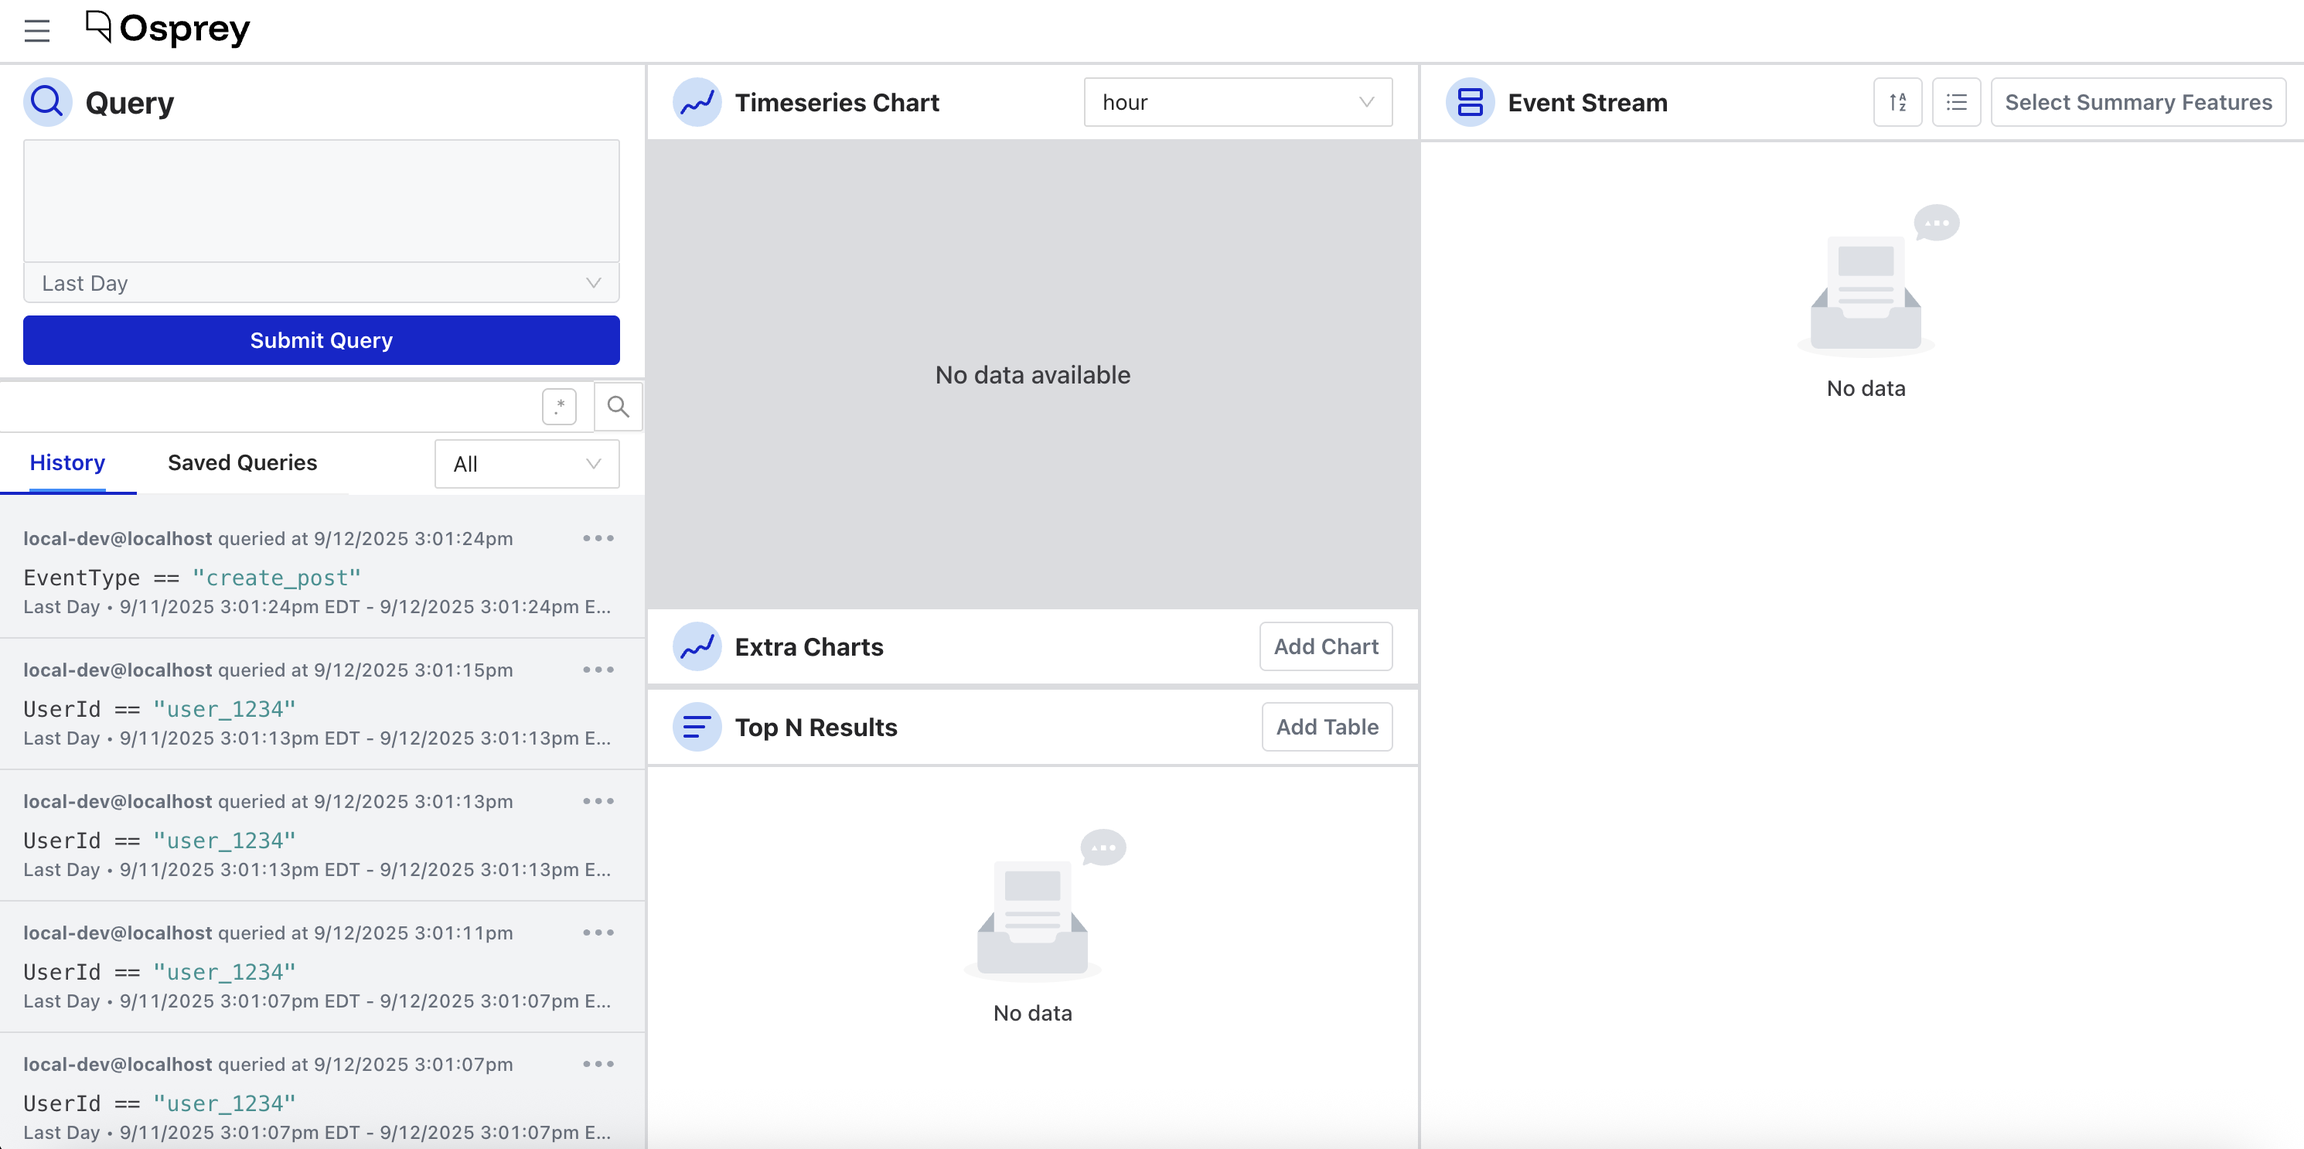
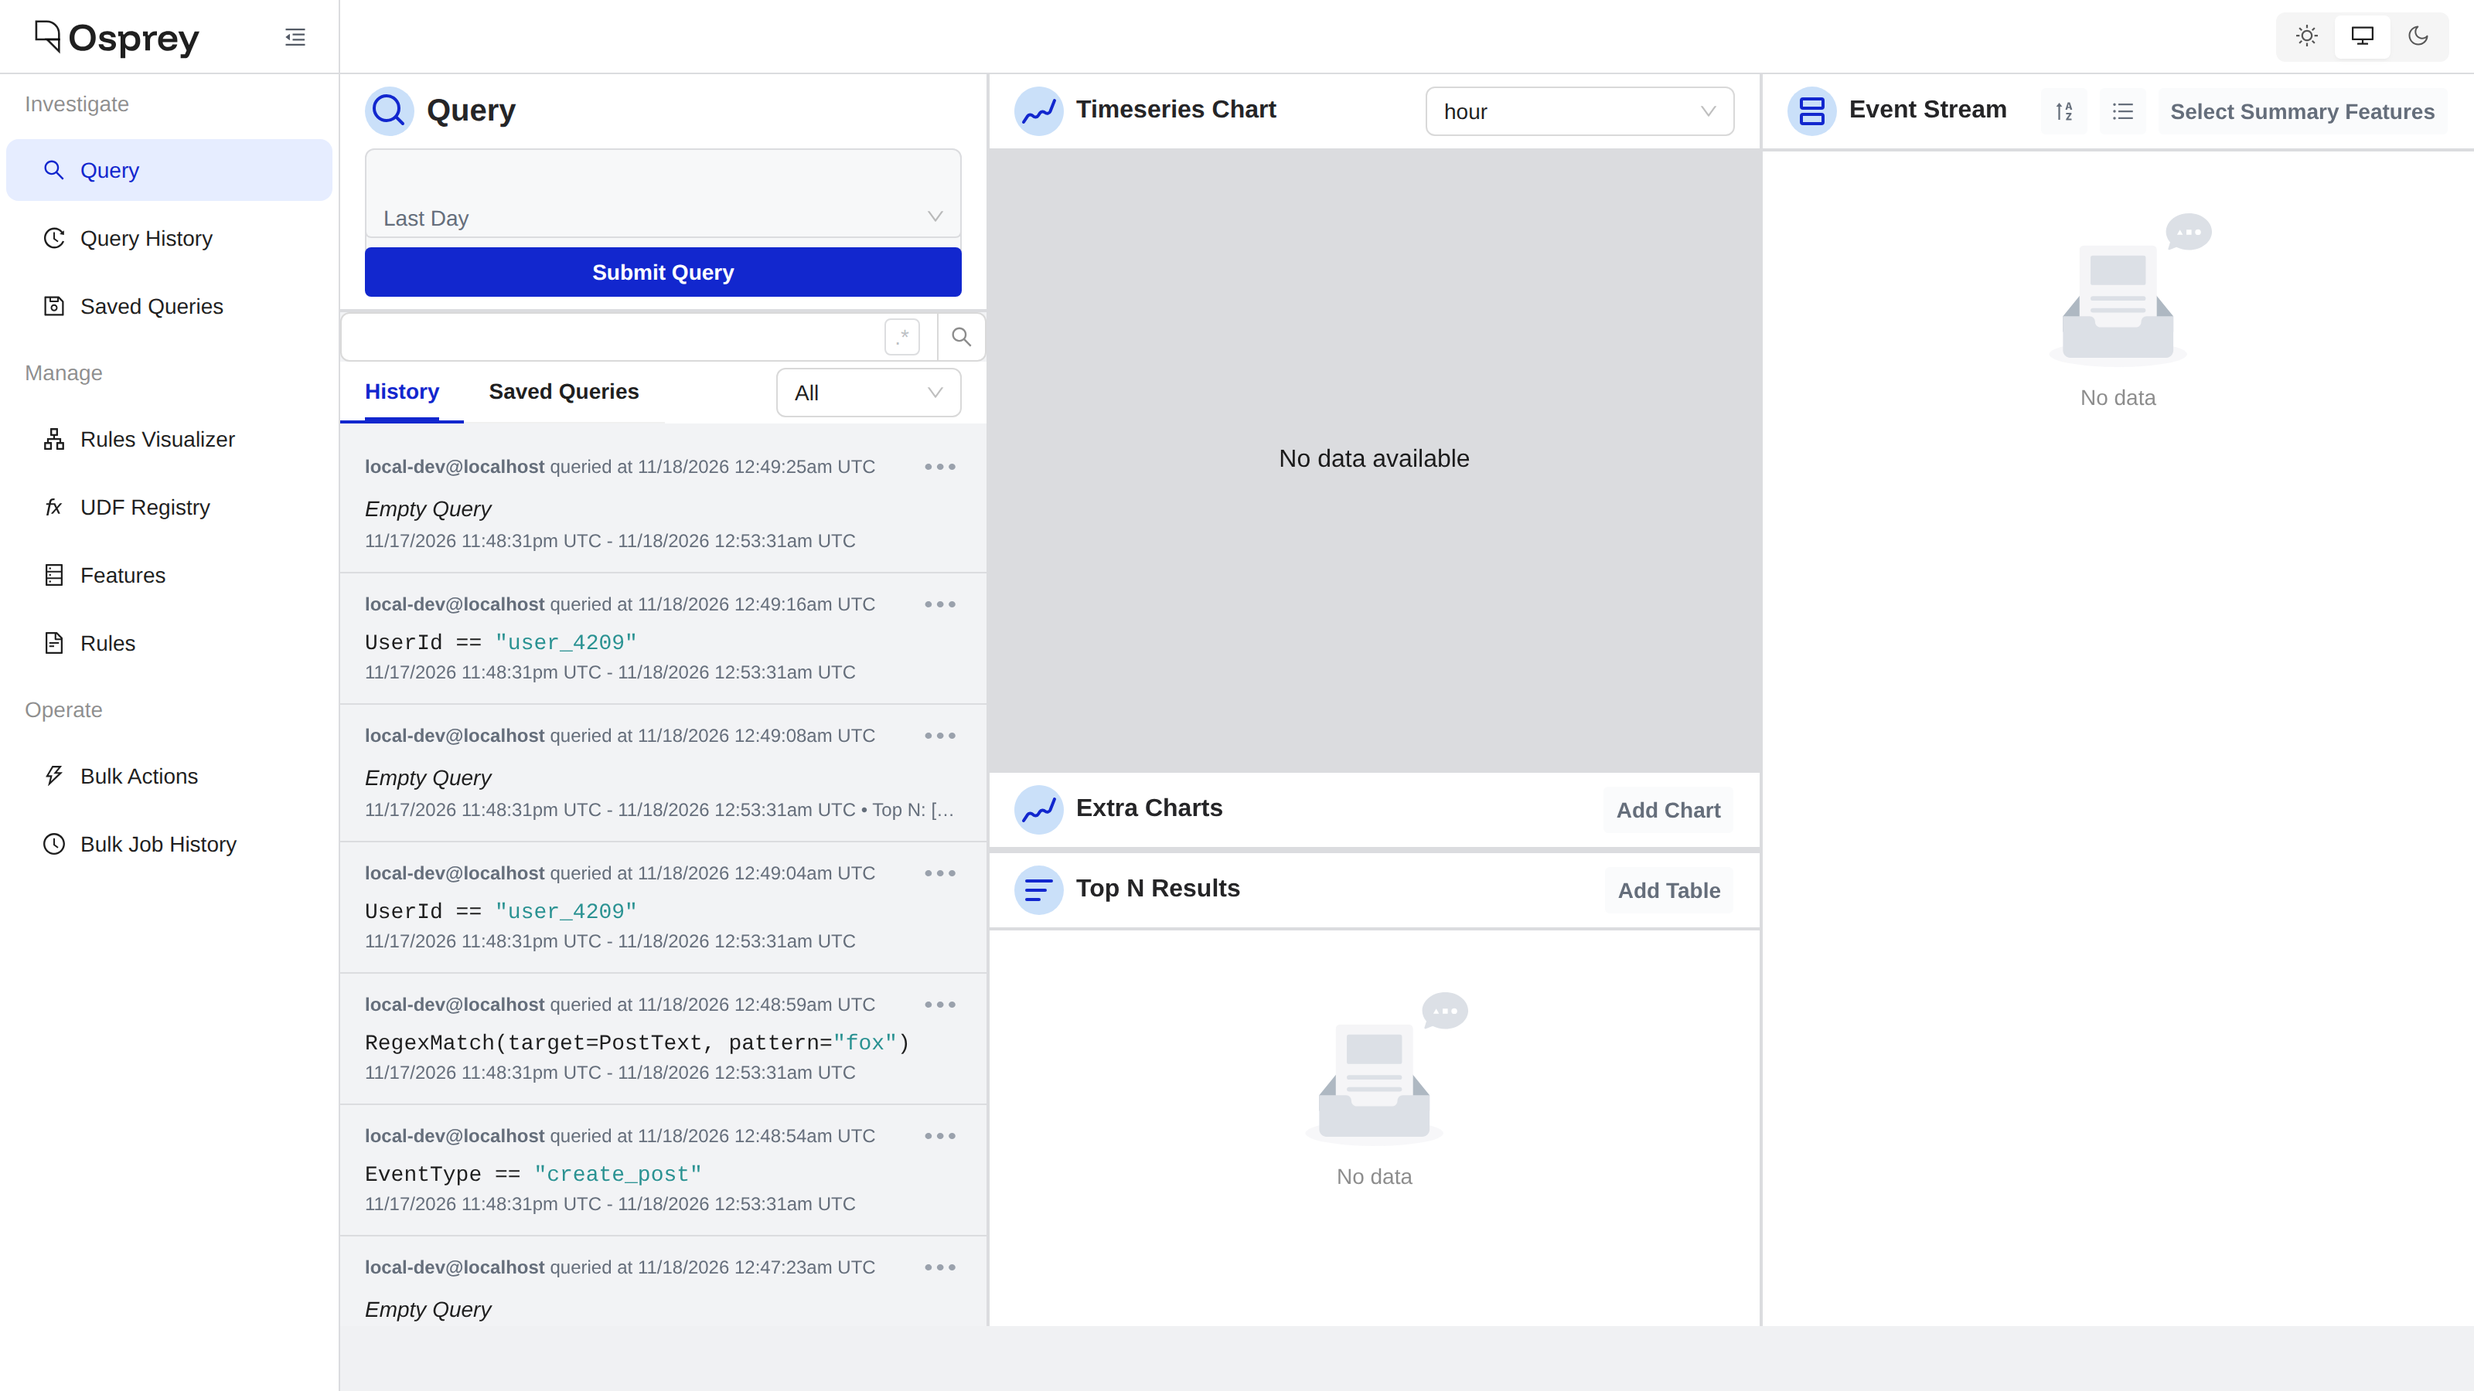
docs: fix user-guide text and refresh screenshots found by the docs audit

diff --git a/docs/user/investigate/README.md b/docs/user/investigate/README.md
@@ -6,7 +6,7 @@ The Investigate section is where most day-to-day work happens. It contains the m
 
 The Query page is the home page of Osprey. It's a live investigation workspace with three panels.
 
-![The Query page on first load: an empty query input with a Last Day time range on the left above the query history, and empty Timeseries Chart, Top N Results, and Event Stream panels awaiting data](../../images/osprey-home.png)
+![The Query page on first load: the sidebar with Investigate, Manage, and Operate sections, an empty query input with a Last Day time range above the query history, empty Timeseries Chart, Top N Results, and Event Stream panels awaiting data, and the light, system, and dark theme switcher at the top right](../../images/osprey-home.png)
 
 ### Query input
 
@@ -14,9 +14,9 @@ The left panel is where you write and run queries. Osprey uses SML syntax—the 
 
 ![The query input with an SML filter for post-creation events by one user, a Last 2 Weeks time range, and a Submit Query button](../../images/query-box.png)
 
-As you type, the input offers autocomplete suggestions for feature names, action names, and UDFs. Hovering over any UDF name shows a tooltip with its description.
+As you type, the input suggests feature and rule names. Hovering over a rule shows a tooltip with its description.
 
-![Autocomplete in the query input suggesting the ContainsHello UDF after typing "Contains", with a tooltip describing it as "Post contains the word hello"](../../images/query-udf-hover.png)
+![Autocomplete in the query input suggesting the ContainsHello rule after typing "Contains", with a tooltip describing it as "Post contains the word hello"](../../images/query-udf-hover.png)
 
 The active query is reflected in the page URL, making it easy to share a specific investigation with a teammate, though be aware this may expose sensitive query parameters.
 
@@ -32,7 +32,7 @@ The entire page updates dynamically when the query or time range changes, and in
 
 The center panels show two types of visualizations:
 
-![A Timeseries Chart of daily matching event counts above a Top N Results table grouping events by PostText, with Download CSV, Bulk Label, PoP, Yeet Table, and Precision controls along the table footer](../../images/charts.png)
+![A Timeseries Chart of per-minute matching event counts above a Top N Results table grouping events by UserId, with Download CSV, Bulk Label, PoP, Yeet Table, and Precision controls along the table footer](../../images/charts.png)
 
 **Timeseries** displays how many matching events occurred over time. You can set the granularity—minute, fifteen minutes, half hour, hour, day, week, or month—and hover over individual bars to see the count for that period.
 
@@ -57,15 +57,15 @@ You can add additional timeseries charts to compare different time granularities
 
 The right panel is Osprey's live feed. It shows individual events matching the current query in near real time, and can also be used to search historical events.
 
-![The Event Stream filtered to one UserId, showing payment events as cards listing each extracted feature, with sensitive values redacted](../../images/event-stream.png)
+![The Event Stream filtered to one UserId, showing create_post events as cards listing each extracted feature, with a See Details button on each](../../images/event-stream.png)
 
 The stream can be displayed in card format or list format. On first load, each event card shows all of its extracted features (or the summary features configured for that event type, if any), so the stream is useful before you've set anything up. You can customize which fields appear per event with **Select Summary Features**, helpful when different team members care about different metadata.
 
-![The Set Features modal for the event stream, with a toggle for Set Custom Features and a filterable checklist of features grouped by model and rule](../../images/summary-features.png)
+![The Set Features modal for the event stream, with a toggle for Set Custom Features and a filterable checklist of features grouped by model and rule: Models Base, Models Post, and Rules Post Contains Hello](../../images/summary-features.png)
 
-Selecting an entity in the event stream (such as a user ID or IP address) opens the [Entity Details](labels.md#entity-details) view. Hold <kbd>Ctrl</kbd> (<kbd>⌘ Cmd</kbd> on macOS) while clicking to select multiple events for bulk labeling.
+Selecting an entity in the event stream (such as a user ID or IP address) opens its label panel, where you can add labels; choose **Go to Entity View** there for the full [Entity Details](labels.md#entity-details) page. To query on an entity's value instead, <kbd>Shift</kbd>-click it to add it to the current query, or <kbd>Ctrl</kbd>-click (<kbd>⌘ Cmd</kbd>-click on macOS) to open a new query for just that value in a new tab.
 
-Selecting an event opens a detail view at `/events/:eventId` showing all extracted feature values for that specific event.
+**See Details** on an event card opens a detail view at `/events/:eventId` in a new window, with **Overview**, **Input**, and **Output** tabs showing the event's extracted feature values, its input data, and its rule results and effects.
 
 ## Query History
 
@@ -77,7 +77,7 @@ Hovering over a query in the sidebar shows the Top N dimensions that were active
 
 The full Query History page (accessible from the sidebar) shows a searchable list of all queries run across your team. You can filter by user email, view the original query text, and re-run any past query using the same time range it was originally run with.
 
-![The Query History page listing each query with its text and time range, buttons to view the original query or re-run it, a filter-by-user dropdown, and a Saved Queries sidebar](../../images/query-history-page.png)
+![The Query History page listing each query with its text and time range, a View Original Query button and a save (star) button on each, a filter-by-user dropdown, and a Saved Queries sidebar](../../images/query-history-page.png)
 
 ## Saved Queries
 
@@ -87,11 +87,11 @@ For queries you return to frequently, Osprey lets you save them by name.
 
 The Saved Queries page (accessible from the sidebar) lists all saved queries with the query text, the user who saved it, and when it was saved. You can filter by user email.
 
-![The Saved Queries page listing a saved query with its text and metadata, and an open menu of Run Original Query, Run Query Using Interval, Show Saved Query History, and Delete Saved Query options](../../images/saved-queries-page.png)
+![The Saved Queries page listing a saved query with its text and metadata, and an open menu of Run Original Query, Show Saved Query History, and Delete Saved Query options](../../images/saved-queries-page.png)
 
 From each saved query's menu, you can:
 - **Run Original Query** to re-run it over its original time range
-- **Run Query Using Interval** to run it over its saved interval (e.g. Last Day) relative to now
+- **Run Query Using Interval** to run it over its saved interval (e.g. Last Day) relative to now; only for queries run with a relative interval, not a custom date range
 - **Show Saved Query History** to see past runs of the query
 - **Delete Saved Query**, with a confirmation step
 

diff --git a/docs/user/investigate/query-syntax.md b/docs/user/investigate/query-syntax.md
@@ -2,25 +2,27 @@
 
 Osprey uses SML (“Some Madeup Language,” a subset of Python with additional restrictions) for queries. Queries match against **features**—the named values your rules extract from each event—including **entities** and **labels**. If those terms are new, read [Concepts](../../concepts.md) first.
 
+A query can only use features your rules define, compared with values of the feature's type. The examples below use the features of the demo ruleset in `example_rules/`: `EventType`, `UserId` and `PostText` are strings, and the demo's users are labeled `meow`. Substitute your own deployment's features; the [Features Registry](../manage.md#features-registry) lists them with their types. A feature that doesn't exist is rejected with "does not exist in any rule files", and comparing a feature with a value of the wrong type (`UserId == 4454` for a string feature) with "incompatible types".
+
 ## Basic comparisons
 
 ```py
 EventType == "create_post"
-UserId == 12345
-MessageText != None
+UserId == "user_4454"
+PostText != None
 ```
 
 ## Combining conditions
 
 ```py
 # AND: all conditions must match
-EventType == "user_login" and LoginAttempts >= 3
+EventType == "create_post" and UserId == "user_4454"
 
 # OR: any condition may match
-(UserId == 123) or (UserId == 456)
+(UserId == "user_4454") or (UserId == "user_8284")
 
 # in: match any value in a list
-EventType in ["create_post", "send_message"]
+EventType in ["create_post", "update_post"]
 ```
 
 ## Query functions
@@ -33,11 +35,11 @@ Queries support a small, fixed set of built-in functions. Unlike the UDFs you us
 
 ```py
 # Regex match against a feature
-RegexMatch(target=MessageText, pattern="(buy|sell|deal)")
+RegexMatch(target=PostText, pattern="(buy|sell|deal)")
 ```
 
 > [!NOTE]
-> These are the only functions that work in queries. The [UDF Registry](../manage.md#udf-registry) lists every UDF, but most are rules-only and will fail with a silent 500 error if you use them in a query.
+> These are the only functions that work in queries. The [UDF Registry](../manage.md#udf-registry) lists every UDF, but most are rules-only: using one in a query is rejected with an `unknown function` error, shown under the query box.
 
 ## Label queries
 
@@ -45,24 +47,23 @@ The query UI searches across events, not entity state, so `HasLabel()` won't wor
 
 ```py
 # Find events that added a specific label
-DidAddLabel(entity_type="User", label_name="likely_spammer")
-DidAddLabel(entity_type="IpAddress", label_name="suspicious")
+DidAddLabel(entity_type="User", label_name="meow")
 ```
 
 ## Example queries
 
 ```py
-# Suspicious login attempts
-EventType == "user_login" and LoginAttempts >= 5
+# One user's posts
+EventType == "create_post" and UserId == "user_4454"
 
 # Posts matching a pattern
-EventType == "create_post" and RegexMatch(target=PostContent, pattern="urgent")
+EventType == "create_post" and RegexMatch(target=PostText, pattern="urgent")
 
-# Users who were flagged
-DidAddLabel(entity_type="User", label_name="flagged")
+# Events where a user was labeled meow
+DidAddLabel(entity_type="User", label_name="meow")
 
-# Complex: messages matching a pattern, from users without a verified label
-EventType == "send_message" and
-RegexMatch(target=MessageText, pattern="(click|link|urgent)") and
-not DidAddLabel(entity_type="User", label_name="verified")
+# Complex: posts matching a pattern that didn't label their author
+EventType == "create_post" and
+RegexMatch(target=PostText, pattern="(click|link|urgent)") and
+not DidAddLabel(entity_type="User", label_name="meow")
 ```

diff --git a/docs/user/manage.md b/docs/user/manage.md
@@ -29,7 +29,7 @@ UDFs are organized by category and are searchable. Each entry shows:
 - Parameter names, types, and descriptions
 - Return type
 
-Use this page as your reference when writing rules, to confirm a function's exact name and parameter order. Note that most UDFs are for rules only: the query box supports just four functions (`RegexMatch`, `DidAddLabel`, `DidRemoveLabel`, `DidDeclareVerdict`), so using any other UDF in a query currently fails with a silent 500 error.
+Use this page as your reference when writing rules, to confirm a function's exact name and parameter order. Note that most UDFs are for rules only: the query box supports just four functions (`RegexMatch`, `DidAddLabel`, `DidRemoveLabel`, `DidDeclareVerdict`), so using any other UDF in a query is rejected with an `unknown function` error under the query box.
 
 ## Features Registry
 
@@ -37,13 +37,13 @@ The Features Registry lists every feature defined in your Osprey deployment. Fea
 
 The list is paginated (50 per page) and can be filtered and sorted:
 
-- **Search**: filter by name, category, or description
-- **Category filter**: narrow to a specific feature category
+- **Search**: filter by name
+- **Category filter**: narrow to one or more feature categories
 - **Extraction function filter**: narrow to features using a specific extraction function
-- **Unused only**: show only features not referenced by any rule
+- **Unused only**: show only features nothing references
 - **Sort**: by name, most referenced, or least referenced
 
-Each row shows the feature's name, category, extraction function(s), reference count (how many rules use it), description, owner, and last modified date.
+Each row shows the feature's name, type, extraction function, source file, and how many rules, features, and WhenRules blocks reference it. Expand a row for its category, its full definition, and the rules and features that use it.
 
 ## Rules Registry
 
@@ -52,7 +52,7 @@ The Rules Registry lists every rule loaded in your Osprey deployment.
 The list is paginated (50 per page) and can be filtered and sorted:
 
 - **Search**: filter by name, source file, or description
-- **Unused only**: hide rules that are referenced by other (when-)rules, showing only "leaf" rules
+- **Unused only**: show only rules that no `WhenRules` block uses, so they have no effects
 - **Sort**: by name, most referenced, or least referenced
 
-Each row shows the rule's name, source file, description, reference count, and line number within the source file.
+Each row shows the rule's name, source file, and how many `WhenRules` blocks use it. Expand a row for its description, its conditions, and the features it references.

diff --git a/docs/user/investigate/labels.md b/docs/user/investigate/labels.md
@@ -8,11 +8,11 @@ Labels have one of three connotations:
 - **Positive**: trusted or verified (e.g. `verified`, `trusted`, `premium_user`)
 - **Neutral**: informational (e.g. `new_user`, `from_mobile`, `beta_tester`)
 
-A reason is required whenever you apply a label.
+The UI requires a reason whenever you apply a label. (The UI API itself accepts an empty reason, so labels applied by other tools may have none.)
 
 ## Entity Details
 
-Selecting an entity anywhere in the UI navigates to an entity view showing every label that has ever been applied to that entity, grouped by label name.
+Selecting an entity anywhere in the UI opens its label panel; choose **Go to Entity View** there to open the entity view (`/entity/<type>/<id>`), showing every label that has ever been applied to that entity, grouped by label name.
 
 ![The entity view for a user, listing their negative labels—including identity_evasion with its description and an automatically added RapidHandleChange entry—beside the query page's charts and event stream](../../images/osprey-user-entity.png)
 

diff --git a/docs/user/README.md b/docs/user/README.md
@@ -18,4 +18,4 @@ The sidebar groups Osprey's tools by task, and this guide follows the same secti
 
   [![The Bulk Edit Labels form for roughly 9,800 entities matching a query, with label name, status, reason, and expiration fields](../images/bulk-label.png)](../images/bulk-label.png)
 
-The sidebar can be collapsed to an icon-only strip with the toggle at the bottom, and its state persists between sessions. The interface follows your OS or browser color scheme preference, or you can select a light or dark style using the toggle in the navigation bar.
+The sidebar can be collapsed to an icon-only strip with the toggle at the top, next to the Osprey logo, and its state persists between sessions. The interface follows your OS or browser color scheme preference, or you can select a light or dark style using the toggle in the navigation bar.
